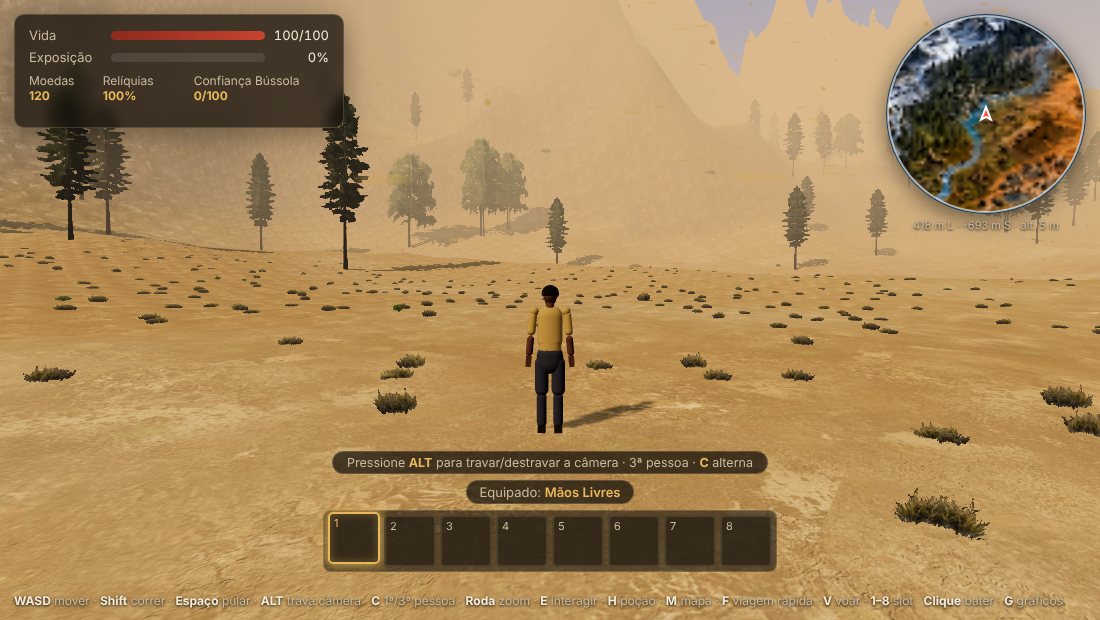
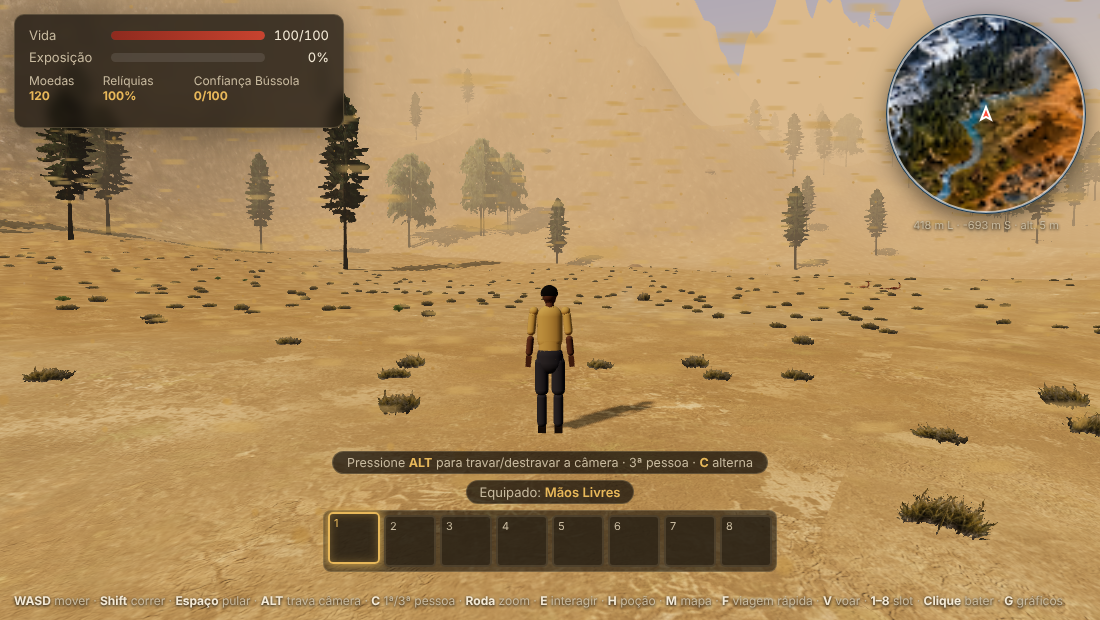
tune: grãos da tempestade de areia mais escuros (contraste com a névoa)
Task: weather-atmosphere

Claude-Session: https://claude.ai/code/session_01PeC3KnBVu2DWi1zjfReTy2

diff --git a/src/config/weather.js b/src/config/weather.js
@@ -68,7 +68,7 @@ export const WEATHER = {
   deserto: {
     name: 'Tempestade de areia',
     particles: [
-      { shape: 'streakH', count: 5000, box: [40, 14, 40], size: 0.6, color: 0xc89550, opacity: 0.75, fall: 0.3, jitter: 3, flutter: 0.8, additive: false },
+      { shape: 'streakH', count: 5000, box: [40, 14, 40], size: 0.7, color: 0x9a6a32, opacity: 0.85, fall: 0.3, jitter: 3, flutter: 0.8, additive: false },
       { shape: 'dot', count: 2200, box: [30, 12, 30], size: 0.08, color: 0xb98642, opacity: 0.8, fall: 0.2, jitter: 1.5, flutter: 0.6, additive: false },
     ],
     wind: { x: 22, z: -4, gust: 0.5, gustPeriod: 4 },
